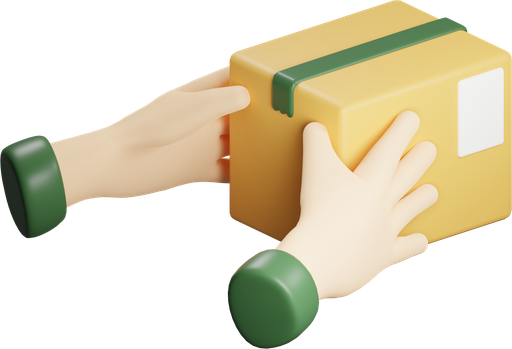
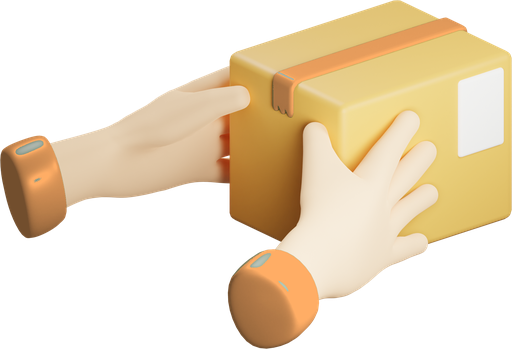
Swap 24/7 assistant for sober dark chat bubbles + recolor box-hands cuffs to orange
- 'La solucion' 24/7 assistant: replace the bright yellow phone render with
  the darker, more minimal chat-bubbles version (person + bot). Reads on the
  dark ground and drops the childish tone.
- 'El problema' box-hands: recolor the green cuffs and tape to brand orange
  (removed the green/teal entirely).

Claude-Session: https://claude.ai/code/session_01XZdx9ccNusQQCK7ZJLv7vU

Changed region(s): [[0.4375, 0.7163, 0.625, 1.0], [0.0, 0.3725, 0.1562, 0.6877], [0.5312, 0.0287, 0.9062, 0.3438]]

diff --git a/src/components/landing/PainSolutionSection.tsx b/src/components/landing/PainSolutionSection.tsx
@@ -236,8 +236,8 @@ export function PainSolutionSection() {
                         src="/3d/icono-asistente-movil.png"
                         alt=""
                         aria-hidden
-                        width={512}
-                        height={471}
+                        width={560}
+                        height={550}
                         quality={95}
                         className="w-56 sm:w-64 h-auto object-contain drop-shadow-[0_24px_50px_rgba(200,66,20,0.28)]"
                     />
